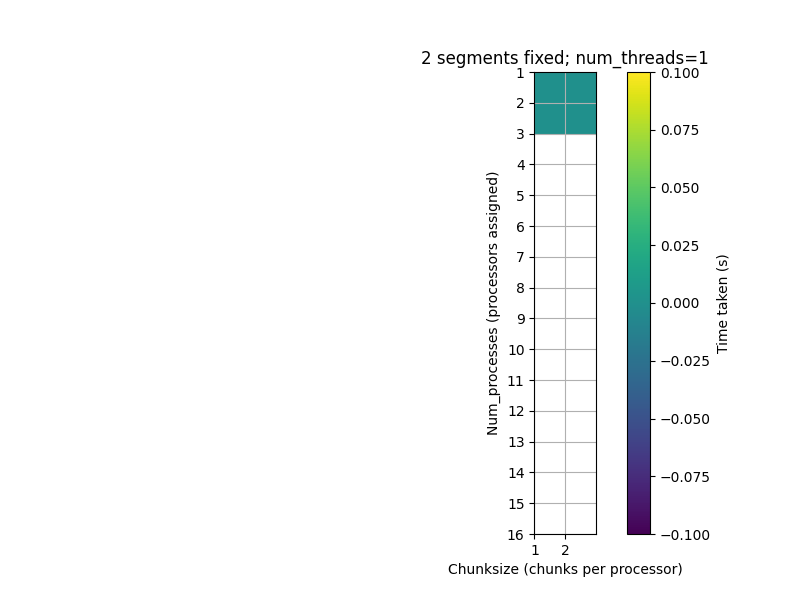
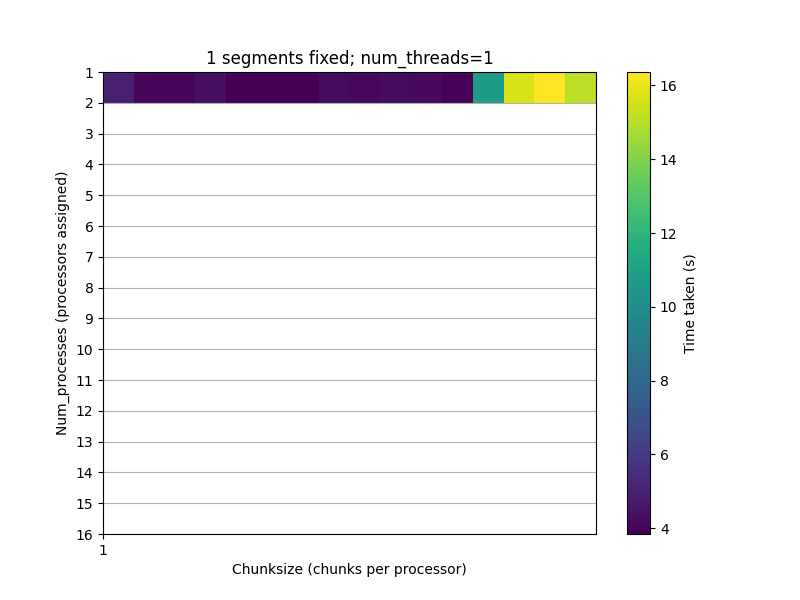
added pipeline files for simulation

diff --git a/daily_notebooks/20241105__test_multiprocessing.py b/daily_notebooks/20241105__test_multiprocessing.py
@@ -95,14 +95,12 @@ def _apply_models(cfg, audio_segments):
     return csv_names
 
 if __name__ == '__main__':
-    multiprocessing.set_start_method('spawn')
     input_file = Path(f'{Path(__file__).parent}/../../Downloads/recover-20220728/Carp/20220728_080000.WAV')
 
     cfg = get_config()
     cfg['audio_file'] = input_file
     cfg['tmp_dir'] = Path('../output')
     cfg['output_dir'] = Path('../output_dir')
-    cfg['num_processes'] = 16
     cfg['should_csv'] = False
     cfg['save'] = True
 
@@ -116,19 +114,17 @@ if __name__ == '__main__':
     segmented_file_paths = batdetect2_pipeline.generate_segmented_paths([input_file], cfg)
     file_path_mappings = batdetect2_pipeline.initialize_mappings(segmented_file_paths, cfg)
     input = file_path_mappings[:]
-    num_rows = min(len(input), multiprocessing.cpu_count())
+    num_rows = multiprocessing.cpu_count()
     num_cols = multiprocessing.cpu_count()
     time_taken_test3 = np.zeros((num_rows, num_cols))
     for i in range(num_rows):
+        num_processes = int(i+1)
+        if num_processes!=1:
+            torch.set_num_threads(1)
         for j in range(num_cols):
-            num_processes = int(i+1)
-            default_num_threads_per_processor = torch.get_num_threads() # np.floor(multiprocessing.cpu_count()/num_processes).astype(int)
-            num_threads_per_processor = np.floor(multiprocessing.cpu_count()/num_processes).astype(int)
-            if num_threads_per_processor!=default_num_threads_per_processor:
-                torch.set_num_threads(num_threads_per_processor)
             pool = multiprocessing.Pool(processes=num_processes)
             chunksize_custom = int(j+1)
-            print(f'Parsing {len(input)} chunks with {num_processes} processors and {chunksize_custom} chunksize and {num_threads_per_processor} threads per processor')
+            print(f'Parsing {len(input)} chunks with {num_processes} processors and {chunksize_custom} chunksize and {torch.get_num_threads()} threads per processor')
             start = time.time()
             results = tqdm(pool.imap(_apply_model, input, chunksize=chunksize_custom), 
                             desc=f"Applying BatDetect2", total=len(input),)
@@ -137,13 +133,14 @@ if __name__ == '__main__':
             end = time.time()
             time_taken_test3[i,j] = end-start
 
-    plt.figure(figsize=(8,6))
-    plt.title(f'{len(input)} segments fixed; num_threads=1')
-    plt.imshow(time_taken_test3)
-    plt.ylabel('Num_processes (processors assigned)')
-    plt.xlabel('Chunksize (chunks per processor)')
-    plt.yticks(np.arange(num_rows)-0.5, np.arange(num_rows)+1)
-    plt.xticks(np.arange(num_cols)-0.5, np.arange(num_cols)+1)
-    plt.grid(which='both')
-    plt.colorbar(label='Time taken (s)')
-    plt.savefig(f'20241105__large_instance_single_file_computation.png')
+            plt.figure(figsize=(8,6))
+            plt.title(f'{len(input)} segments fixed; num_threads=1')
+            plt.imshow(time_taken_test3)
+            plt.ylabel('Num_processes (processors assigned)')
+            plt.xlabel('Chunksize (chunks per processor)')
+            plt.yticks(np.arange(num_rows)-0.5, np.arange(num_rows)+1)
+            plt.xticks(np.arange(num_cols)-0.5, np.arange(num_cols)+1)
+            plt.grid(which='both')
+            plt.colorbar(label='Time taken (s)')
+            plt.savefig(f'20241105__large_instance_single_file_{len(input)}_{num_cols}x{num_rows}_computation.png', bbox_inches='tight')
+            plt.show()
